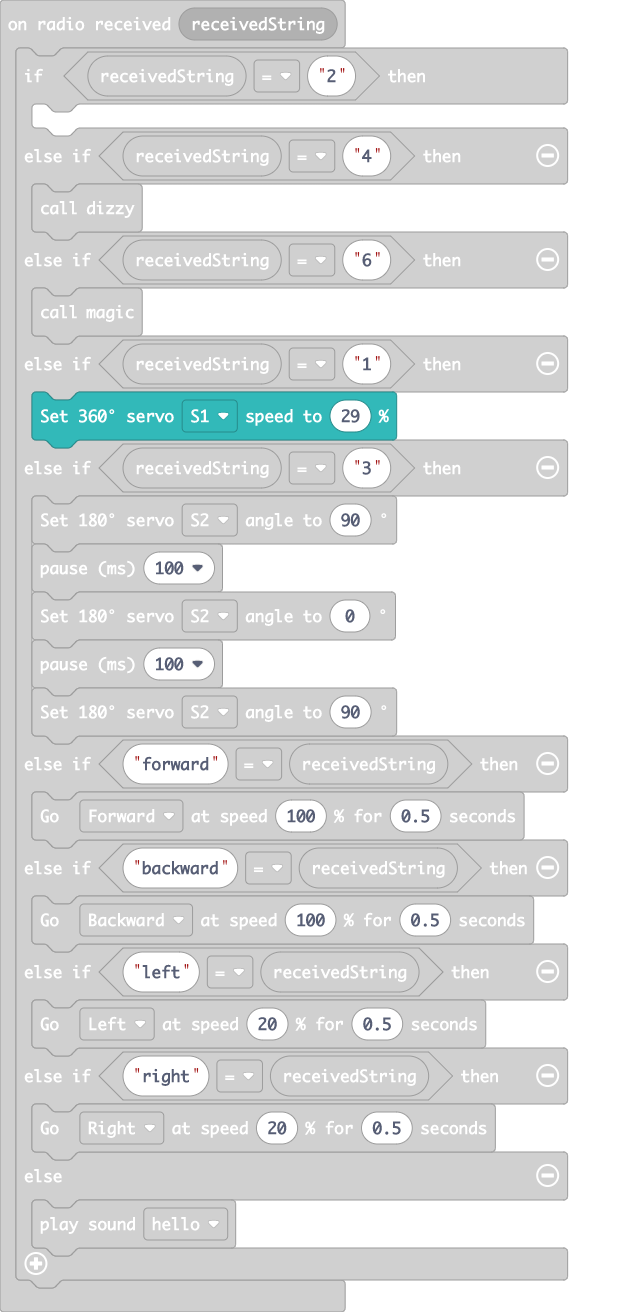
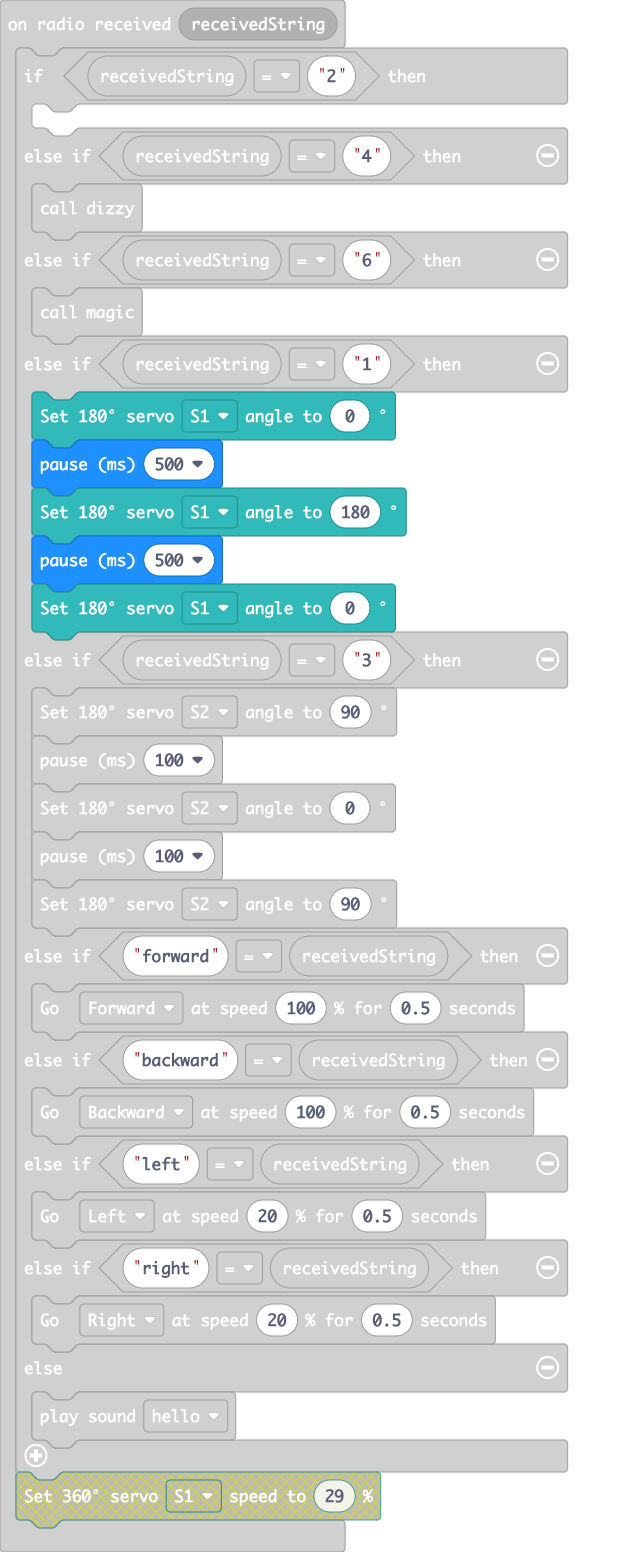
Update main.blocks, main.ts

diff --git a/main.ts b/main.ts
@@ -109,7 +109,11 @@ radio.onReceivedString(function (receivedString) {
     } else if (receivedString == "6") {
         magic()
     } else if (receivedString == "1") {
-        TPBot.setServo360(TPBot.ServoList.S1, 29)
+        TPBot.setServo180(TPBot.ServoList.S1, 0)
+        basic.pause(500)
+        TPBot.setServo180(TPBot.ServoList.S1, 180)
+        basic.pause(500)
+        TPBot.setServo180(TPBot.ServoList.S1, 0)
     } else if (receivedString == "3") {
         TPBot.setServo180(TPBot.ServoList.S2, 90)
         basic.pause(100)
